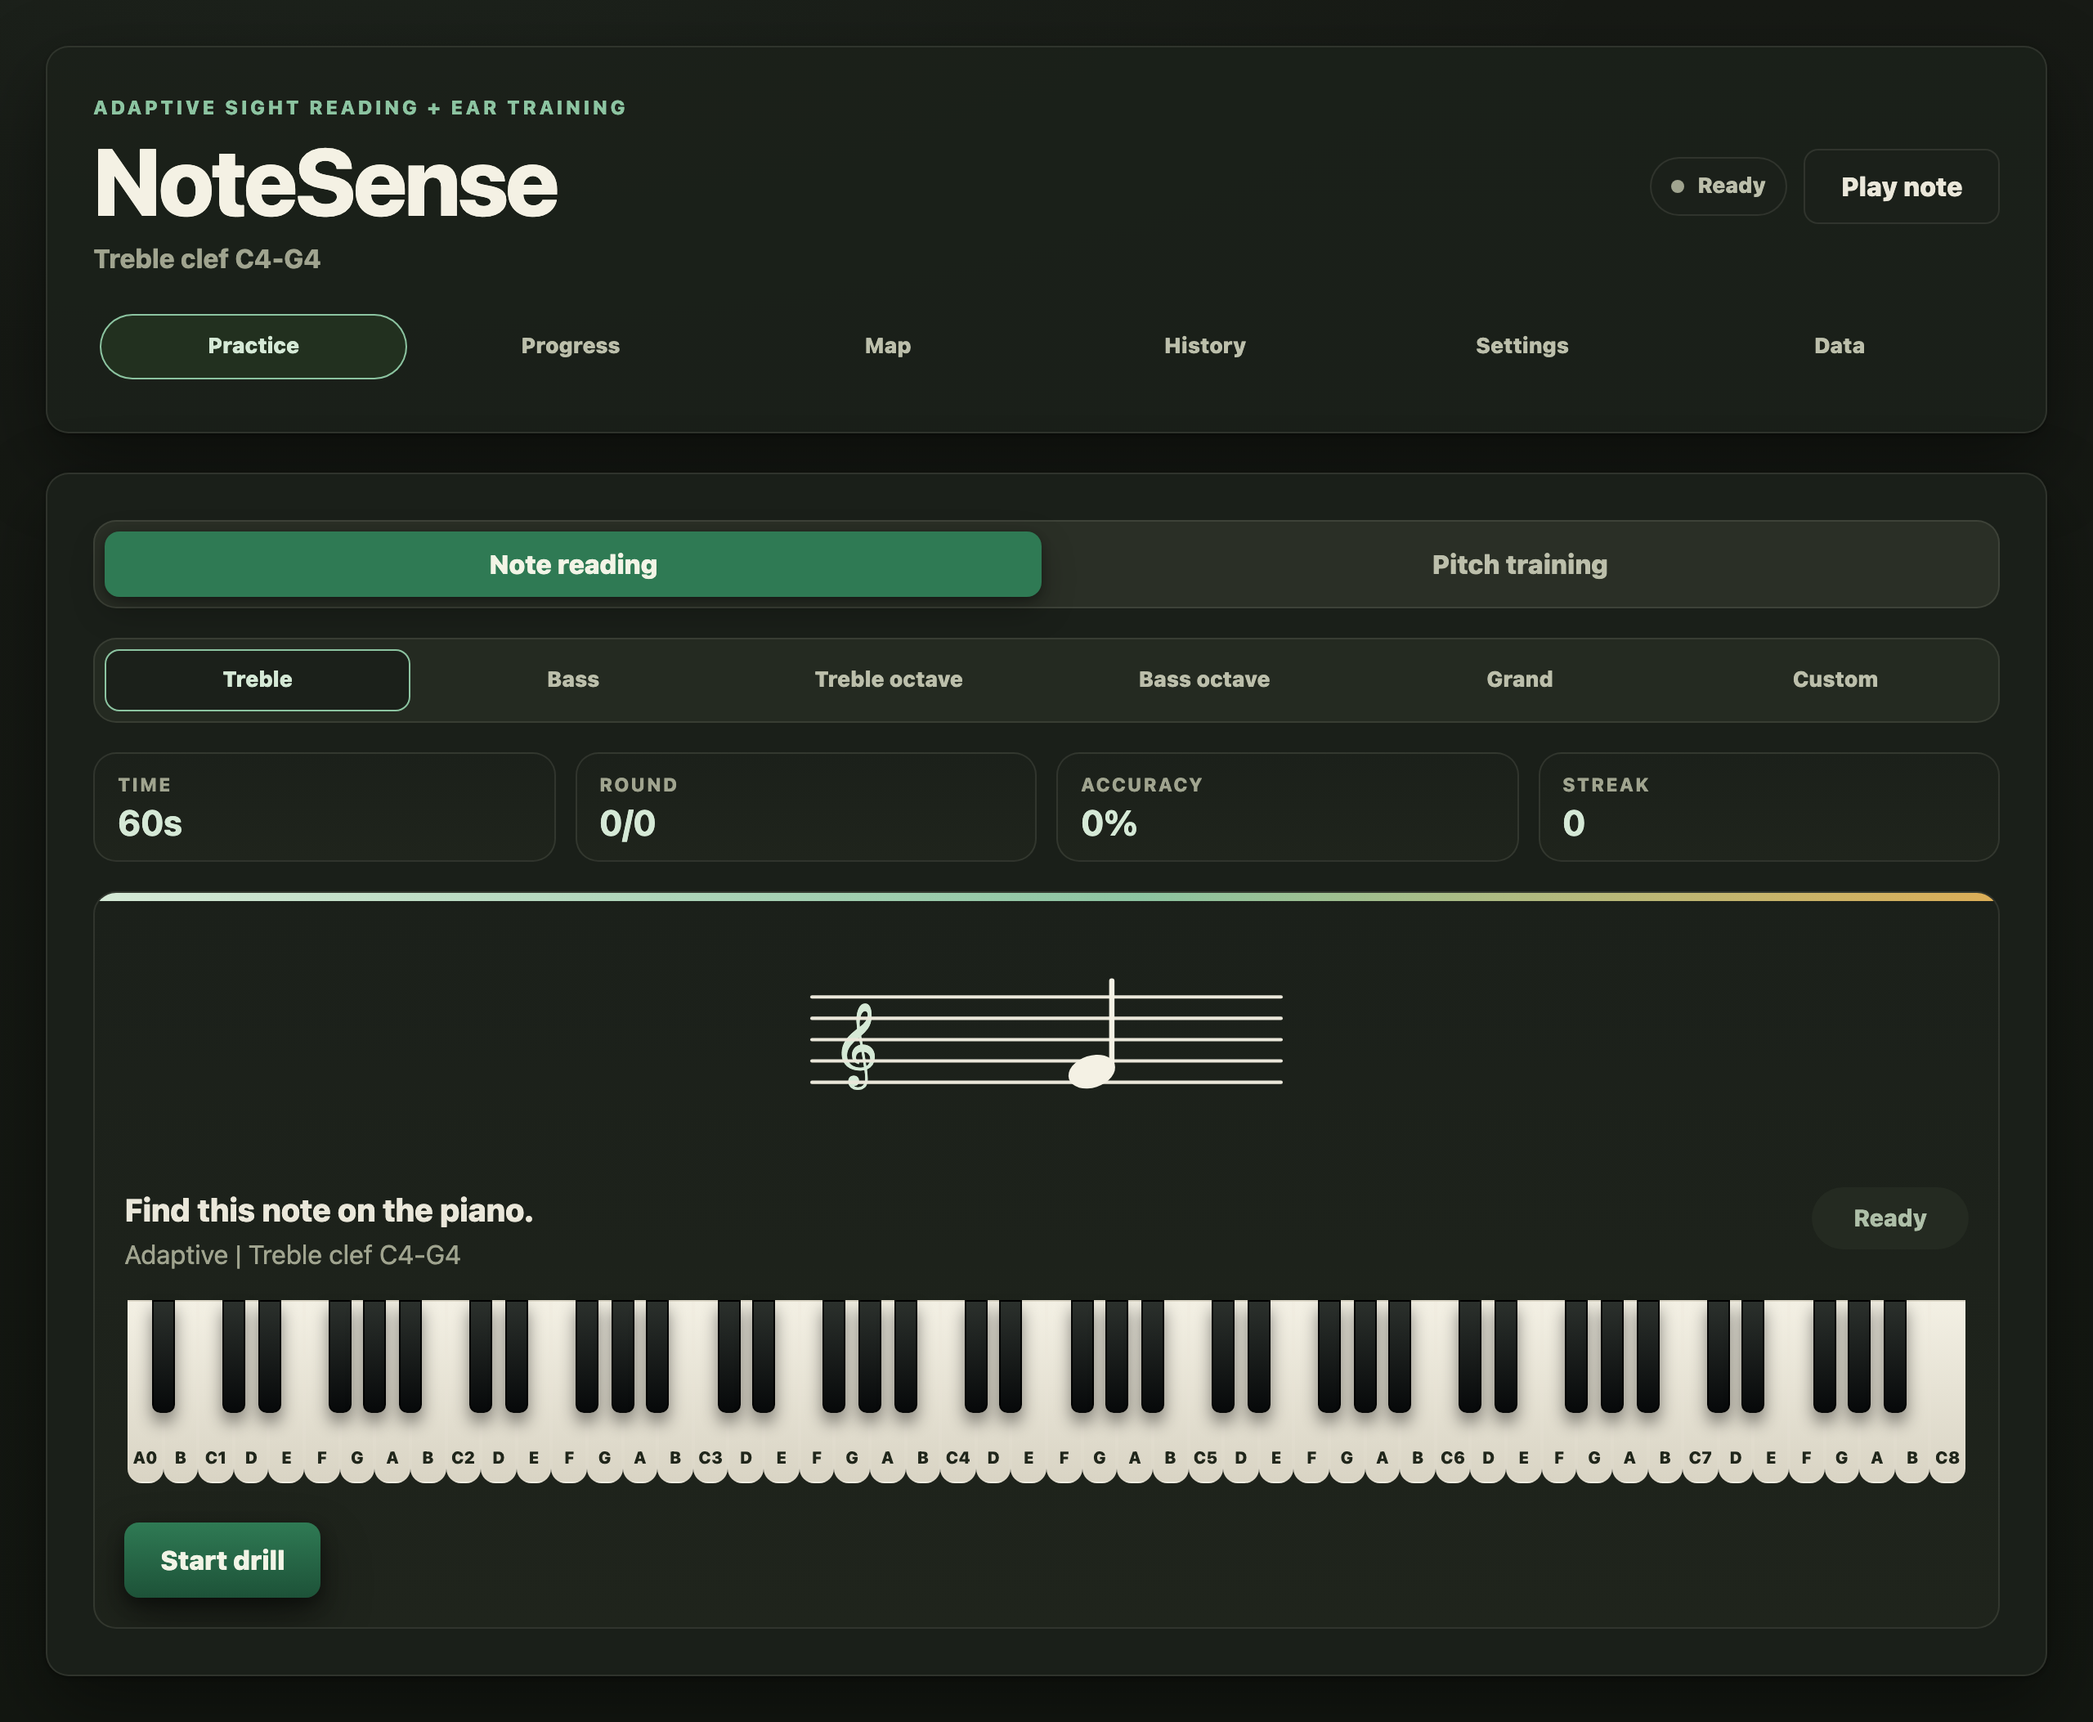
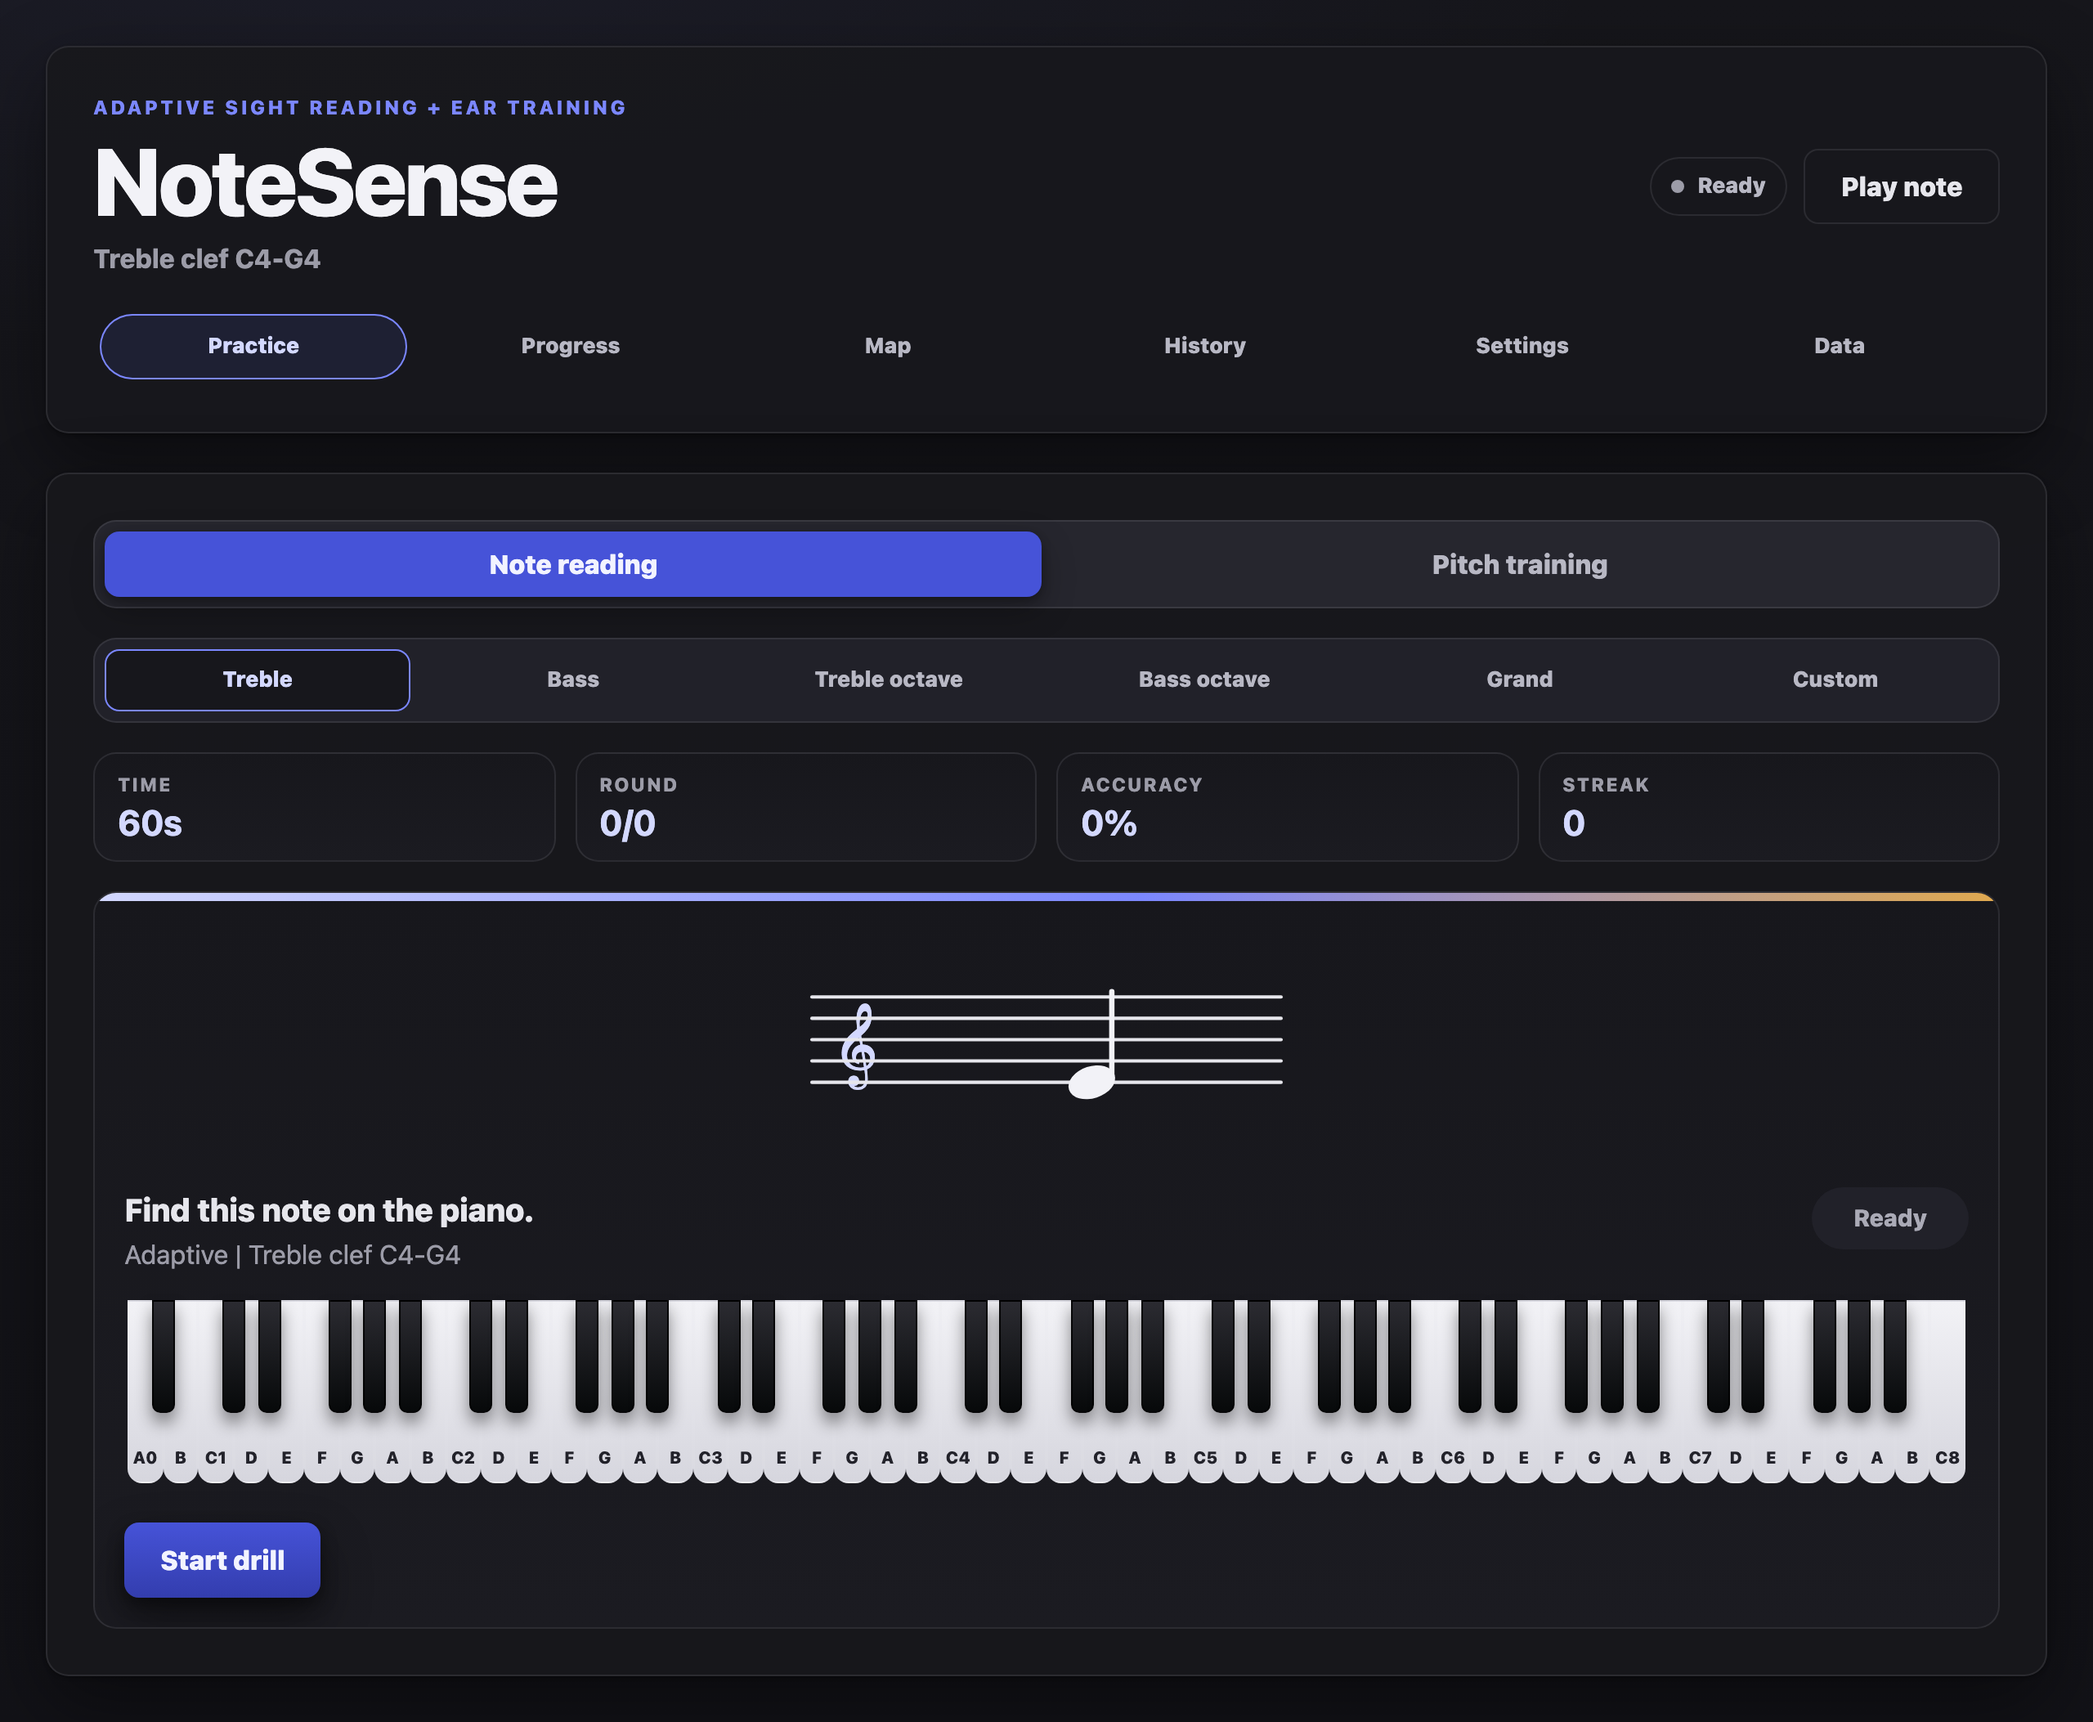
Re-theme to indigo and amber and pin the header height
Replace the green conservatory palette with the indigo & amber
direction: neutral near-black dark mode (#17171c panels, indigo #7b87ff
brand, amber #e0a94f accents) and a cool off-white light mode (#f4f4f8
canvas, indigo #4653d8 brand). Semantic feedback colors (correct green,
wrong red) are unchanged. The swap is token-only; no component rules
change.

Pin the app-shell grid with align-content: start so panel rows keep
their natural height on short sections. The header previously stretched
from 237px to ~310px on History/Map/Settings/Data because the shell
distributed leftover viewport height into its rows; it now measures
237px in every section.

Verified: design, accessibility, and full verify gates pass; 210 unit
tests green; visual baselines and README screenshots regenerated.

diff --git a/src/styles.css b/src/styles.css
@@ -1,26 +1,26 @@
 :root {
-  --color-text: #23271f;
-  --color-ink: #161a12;
-  --color-muted: #6d7263;
-  --color-muted-strong: #585d4f;
-  --color-brand: #2e6b4d;
-  --color-brand-strong: #1b4231;
-  --color-brand-wash: #edf4ec;
-  --color-accent: #8a5a14;
-  --color-accent-bg: #f9efdc;
-  --color-canvas: #f3f0e7;
-  --color-canvas-top: #faf8f1;
-  --color-canvas-soft: #efece1;
-  --color-canvas-glow: rgba(46, 107, 77, 0.07);
-  --color-surface: #fffdf8;
-  --color-surface-raised: rgba(255, 253, 248, 0.94);
-  --color-surface-warm: #faf7ee;
-  --color-control: #ebe7d9;
-  --color-control-soft: #f0ede2;
-  --color-feedback: #51584a;
-  --color-meter: #e5e1d3;
-  --color-border: rgba(41, 44, 34, 0.11);
-  --color-border-strong: rgba(41, 44, 34, 0.18);
+  --color-text: #26262c;
+  --color-ink: #17171d;
+  --color-muted: #63636e;
+  --color-muted-strong: #55555f;
+  --color-brand: #4653d8;
+  --color-brand-strong: #2f3ab2;
+  --color-brand-wash: #eceefb;
+  --color-accent: #9c6a12;
+  --color-accent-bg: #faf0da;
+  --color-canvas: #f4f4f8;
+  --color-canvas-top: #fafafd;
+  --color-canvas-soft: #eff0f5;
+  --color-canvas-glow: rgba(70, 83, 216, 0.06);
+  --color-surface: #ffffff;
+  --color-surface-raised: rgba(255, 255, 255, 0.94);
+  --color-surface-warm: #f8f8fc;
+  --color-control: #eaeaf1;
+  --color-control-soft: #f0f0f6;
+  --color-feedback: #54545e;
+  --color-meter: #e4e4ec;
+  --color-border: rgba(35, 35, 48, 0.11);
+  --color-border-strong: rgba(35, 35, 48, 0.18);
   --color-focus: #0a6cff;
   --color-success: #1e7038;
   --color-success-bg: #e0f3e0;
@@ -28,25 +28,25 @@
   --color-danger: #a33511;
   --color-danger-bg: #ffe4da;
   --color-danger-border: rgba(163, 53, 17, 0.28);
-  --color-action: #235c41;
-  --color-action-deep: #16402c;
-  --color-action-text: #f7f5ea;
-  --color-piano-white-top: #fffef9;
-  --color-piano-white-bottom: #f3efe2;
-  --color-piano-white-text: #29301f;
-  --color-piano-black-top: #262a24;
-  --color-piano-black-bottom: #101310;
+  --color-action: #3a46c4;
+  --color-action-deep: #2a34a0;
+  --color-action-text: #f7f7ff;
+  --color-piano-white-top: #ffffff;
+  --color-piano-white-bottom: #f0f0f5;
+  --color-piano-white-text: #2a2a33;
+  --color-piano-black-top: #26262c;
+  --color-piano-black-bottom: #0f0f14;
   --color-piano-black-border: rgba(0, 0, 0, 0.68);
-  --color-piano-focus-border: rgba(46, 107, 77, 0.75);
-  --color-piano-focus-ring: rgba(46, 107, 77, 0.22);
+  --color-piano-focus-border: rgba(70, 83, 216, 0.75);
+  --color-piano-focus-ring: rgba(70, 83, 216, 0.22);
   --radius-card: 14px;
   --radius-control: 9px;
   --radius-pill: 999px;
-  --shadow-panel: 0 1px 2px rgba(31, 36, 26, 0.04), 0 18px 48px rgba(31, 36, 26, 0.07);
-  --shadow-control: 0 2px 6px rgba(31, 36, 26, 0.07), 0 8px 20px rgba(31, 36, 26, 0.07);
-  --shadow-action: 0 4px 10px rgba(22, 64, 44, 0.24), 0 14px 30px rgba(22, 64, 44, 0.22);
+  --shadow-panel: 0 1px 2px rgba(22, 22, 38, 0.04), 0 18px 48px rgba(22, 22, 38, 0.07);
+  --shadow-control: 0 2px 6px rgba(22, 22, 38, 0.07), 0 8px 20px rgba(22, 22, 38, 0.07);
+  --shadow-action: 0 4px 10px rgba(42, 52, 160, 0.24), 0 14px 30px rgba(42, 52, 160, 0.22);
   --shadow-piano-black: 0 6px 10px rgba(0, 0, 0, 0.24);
-  --shadow-sound-ring: inset 0 0 0 18px rgba(46, 107, 77, 0.08);
+  --shadow-sound-ring: inset 0 0 0 18px rgba(70, 83, 216, 0.08);
   --space-page: 28px;
   --space-panel: 24px;
   --space-card: 18px;
@@ -69,28 +69,28 @@
 
 @media (prefers-color-scheme: dark) {
   :root {
-    --color-text: #eae7da;
-    --color-ink: #f4f1e4;
-    --color-muted: #a0a48f;
-    --color-muted-strong: #bcbfab;
-    --color-brand: #8cc4a1;
-    --color-brand-strong: #d5e9d6;
-    --color-brand-wash: #22301f;
-    --color-accent: #dcae57;
-    --color-accent-bg: #2b2313;
-    --color-canvas: #101310;
-    --color-canvas-top: #171a15;
-    --color-canvas-soft: #131711;
-    --color-canvas-glow: rgba(140, 196, 161, 0.05);
-    --color-surface: #1b201a;
-    --color-surface-raised: rgba(27, 32, 26, 0.94);
-    --color-surface-warm: #1f241c;
-    --color-control: #2a2f26;
-    --color-control-soft: #242a21;
-    --color-feedback: #aebfa8;
-    --color-meter: #2e332a;
-    --color-border: rgba(234, 231, 218, 0.1);
-    --color-border-strong: rgba(234, 231, 218, 0.16);
+    --color-text: #e6e6ec;
+    --color-ink: #f2f2f7;
+    --color-muted: #9c9ca8;
+    --color-muted-strong: #b8b8c4;
+    --color-brand: #7b87ff;
+    --color-brand-strong: #d3d8ff;
+    --color-brand-wash: #1e2033;
+    --color-accent: #e0a94f;
+    --color-accent-bg: #2a2214;
+    --color-canvas: #0f0f13;
+    --color-canvas-top: #16161b;
+    --color-canvas-soft: #121217;
+    --color-canvas-glow: rgba(123, 135, 255, 0.06);
+    --color-surface: #17171c;
+    --color-surface-raised: rgba(23, 23, 28, 0.94);
+    --color-surface-warm: #1b1b21;
+    --color-control: #26262e;
+    --color-control-soft: #212129;
+    --color-feedback: #aaaab6;
+    --color-meter: #2b2b33;
+    --color-border: rgba(230, 230, 236, 0.1);
+    --color-border-strong: rgba(230, 230, 236, 0.16);
     --color-focus: #58a6ff;
     --color-success: #63c47a;
     --color-success-bg: #102e16;
@@ -98,22 +98,22 @@
     --color-danger: #e58063;
     --color-danger-bg: #2f1610;
     --color-danger-border: rgba(229, 128, 99, 0.34);
-    --color-action: #2f7a54;
-    --color-action-deep: #1d5238;
-    --color-action-text: #f2f4e6;
-    --color-piano-white-top: #f3f0e4;
-    --color-piano-white-bottom: #d9d4c4;
-    --color-piano-white-text: #20261b;
-    --color-piano-black-top: #2b302c;
+    --color-action: #4653d8;
+    --color-action-deep: #333dae;
+    --color-action-text: #f2f3ff;
+    --color-piano-white-top: #f2f2f6;
+    --color-piano-white-bottom: #d6d6de;
+    --color-piano-white-text: #22222a;
+    --color-piano-black-top: #2b2b31;
     --color-piano-black-bottom: #07090a;
     --color-piano-black-border: rgba(0, 0, 0, 0.82);
-    --color-piano-focus-border: rgba(140, 196, 161, 0.78);
-    --color-piano-focus-ring: rgba(140, 196, 161, 0.24);
+    --color-piano-focus-border: rgba(123, 135, 255, 0.78);
+    --color-piano-focus-ring: rgba(123, 135, 255, 0.24);
     --shadow-panel: 0 1px 2px rgba(0, 0, 0, 0.3), 0 18px 48px rgba(0, 0, 0, 0.42);
     --shadow-control: 0 2px 6px rgba(0, 0, 0, 0.28), 0 8px 20px rgba(0, 0, 0, 0.26);
     --shadow-action: 0 4px 10px rgba(0, 0, 0, 0.4), 0 14px 30px rgba(0, 0, 0, 0.4);
     --shadow-piano-black: 0 6px 10px rgba(0, 0, 0, 0.44);
-    --shadow-sound-ring: inset 0 0 0 18px rgba(140, 196, 161, 0.08);
+    --shadow-sound-ring: inset 0 0 0 18px rgba(123, 135, 255, 0.08);
   }
 }
 
@@ -153,6 +153,7 @@ input:focus-visible {
 
 .app-shell {
   display: grid;
+  align-content: start;
   width: min(100%, 1480px);
   grid-template-columns: minmax(0, 1fr);
   gap: var(--space-panel);
